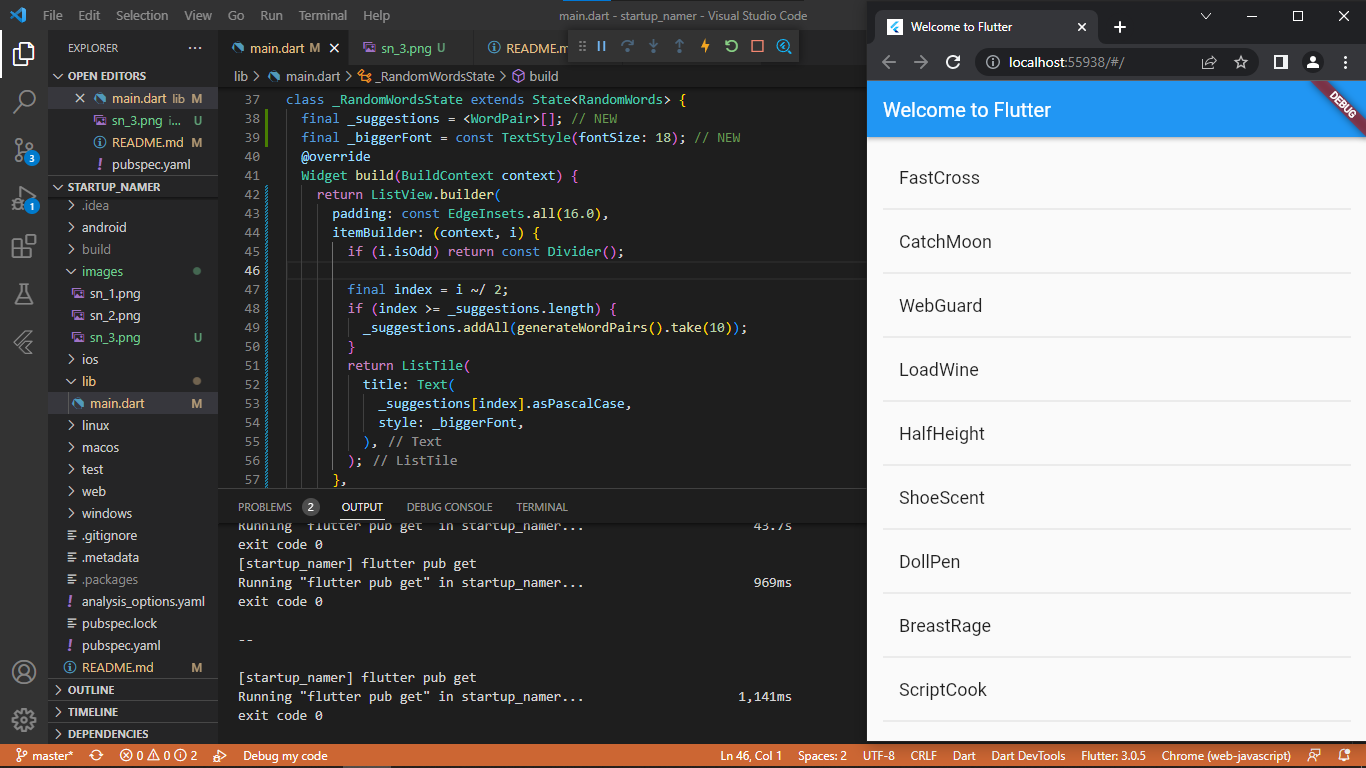
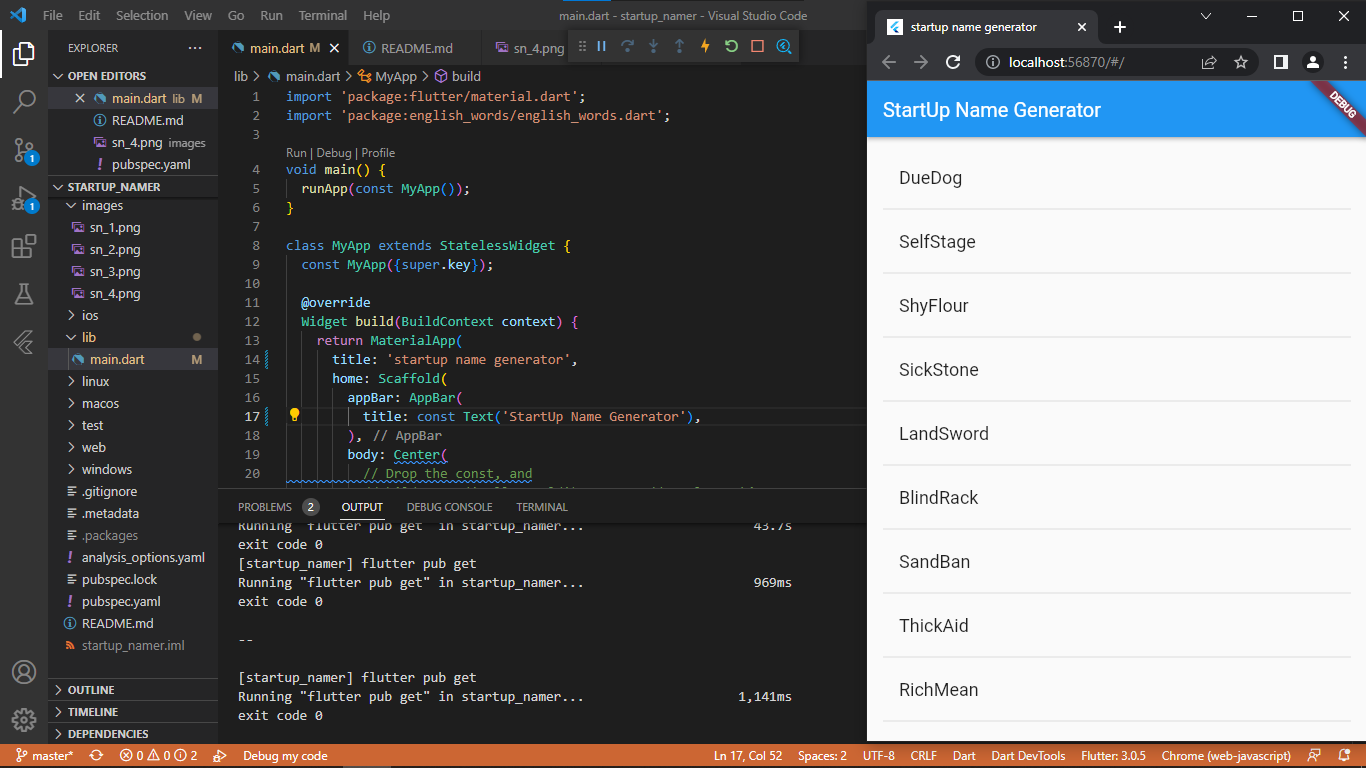
ngubah gambar

diff --git a/lib/main.dart b/lib/main.dart
@@ -11,10 +11,10 @@ class MyApp extends StatelessWidget {
   @override
   Widget build(BuildContext context) {
     return MaterialApp(
-      title: 'Welcome to Flutter',
+      title: 'startup name generator',
       home: Scaffold(
         appBar: AppBar(
-          title: const Text('Welcome to Flutter'),
+          title: const Text('StartUp Name Generator'),
         ),
         body: Center(
           // Drop the const, and
